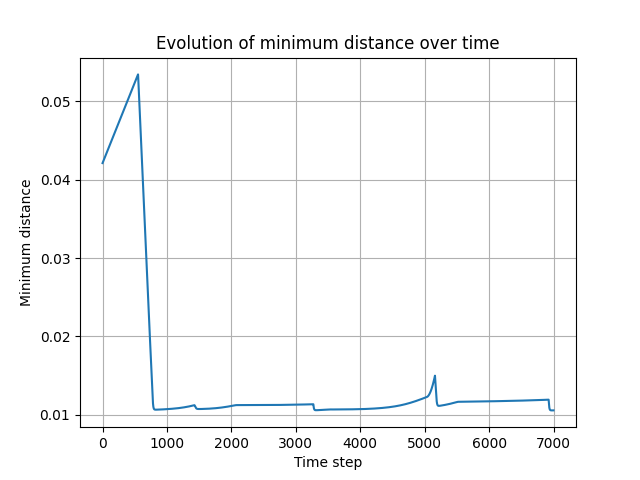
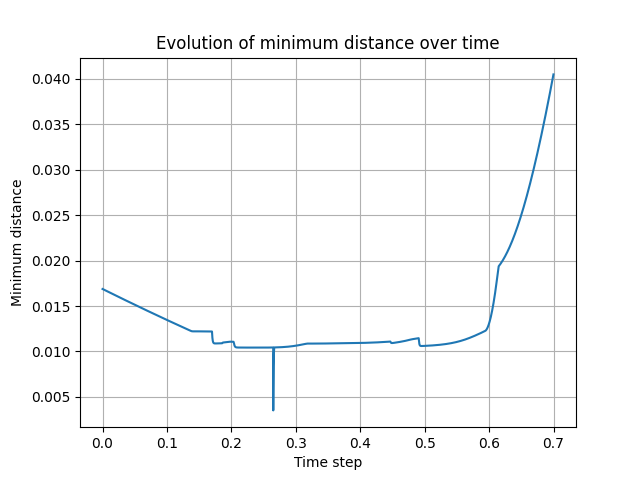
plot min_dist updated

diff --git a/Code/interactingsquirmers.py b/Code/interactingsquirmers.py
@@ -307,7 +307,8 @@ class InteractingSquirmers:
         return history
     
     def plot_vect_dist(self, filename, dir='graphs'):
-        plt.plot(self.vector_dists_min)
+        t = np.arange(0, self.T, self.dt)
+        plt.plot(t, self.vector_dists_min)
         plt.xlabel('Time step')
         plt.ylabel('Minimum distance')
         plt.title('Evolution of minimum distance over time')
